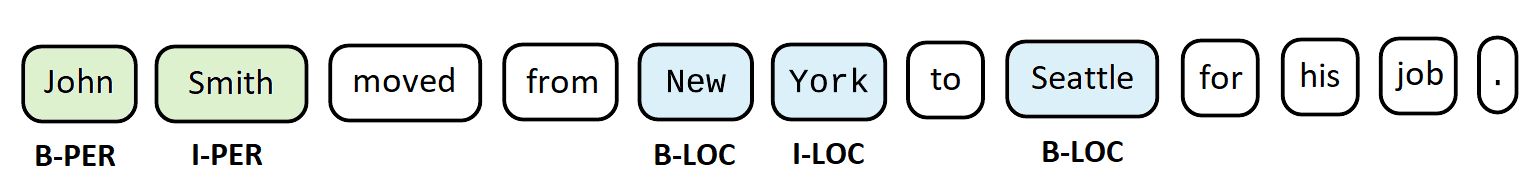
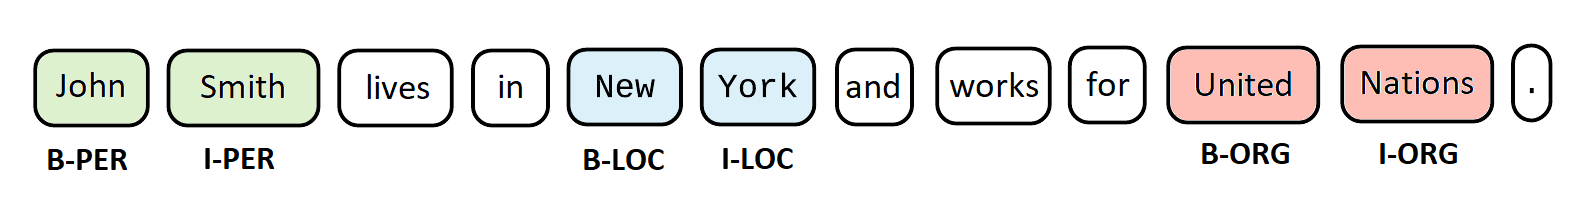
update ner example & add reference in readme file

diff --git a/README.md b/README.md
@@ -37,5 +37,12 @@ python sequence_labeling_run.py --mode eval --config config/config_sequence_temp
 # visualize summary via tensorboard
 tensorboard --logdir=output
 ```
+
 ## Experiment
 TODO
+
+## Reference
+* Zhiheng Huang, Wei Xu, and Kai Yu. [Bidirectional LSTM-CRF models for sequence tagging](https://arxiv.org/abs/1508.01991) [2015]
+* Jason PC Chiu and Eric Nichols. [Named entity recognition with bidirectional lstm-cnns](https://arxiv.org/abs/1511.08308) [2015]
+* Xuezhe Ma and Eduard Hovy. [End-to-end Sequence Labeling via Bi-directional LSTM-CNNs CRF](https://arxiv.org/abs/1603.01354) [2016]
+* Guillaume Lample, Miguel Ballesteros, Sandeep Subramanian, KazuyaKawakami, and ChrisDyer. [Neural architectures for named entity recognition](https://arxiv.org/abs/1603.01360) [2016]
